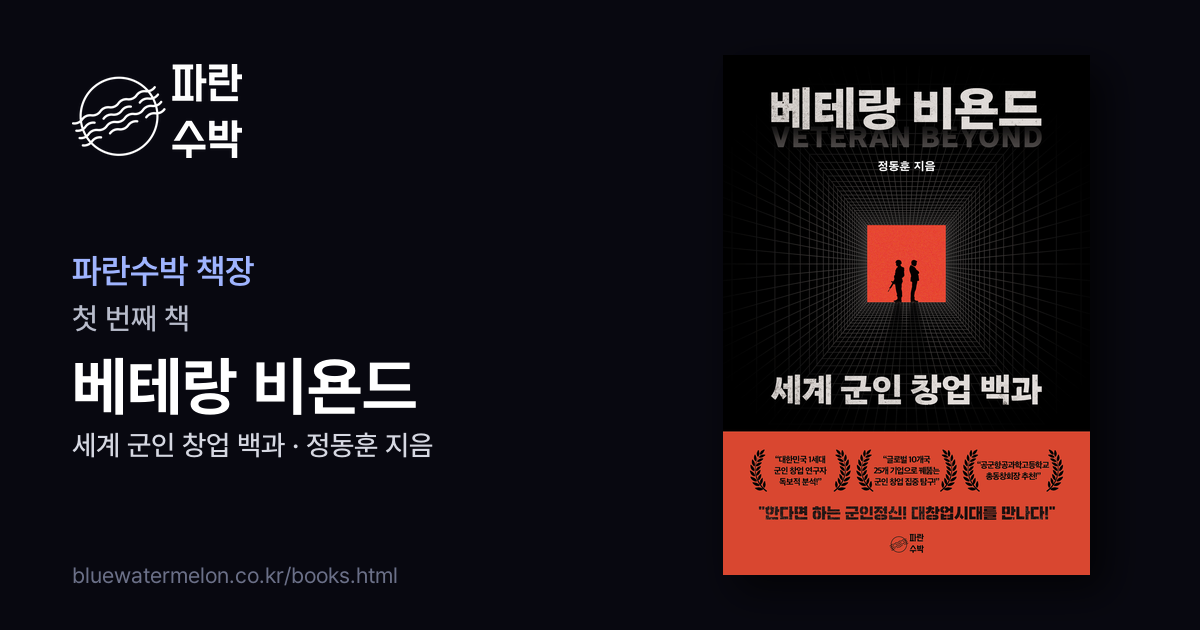
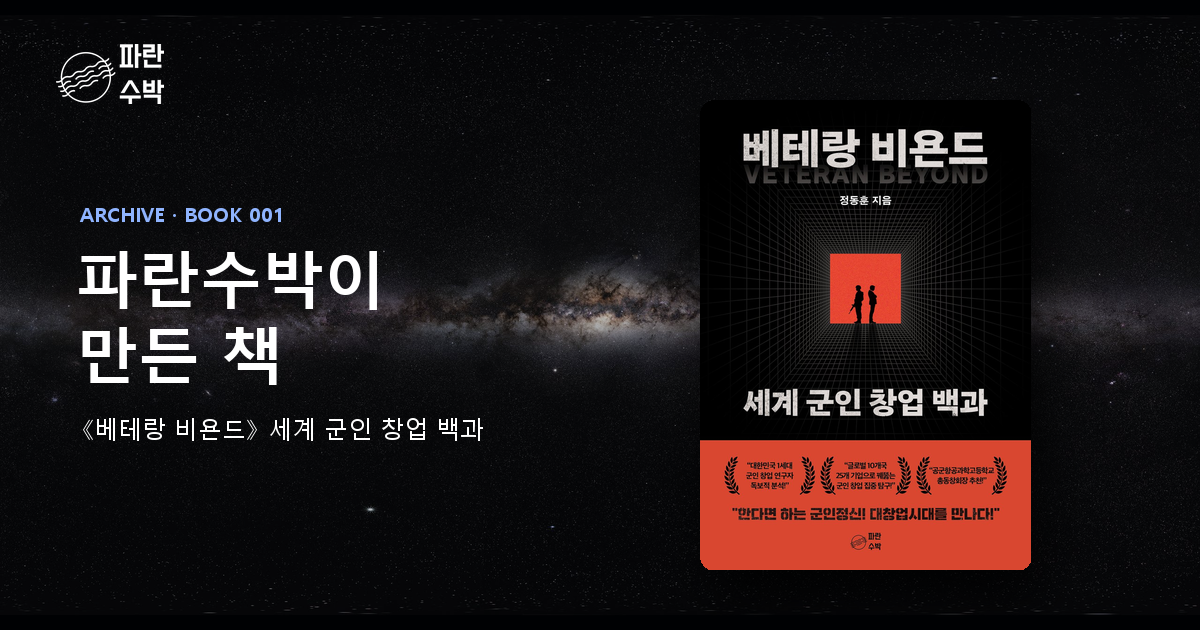
아카이브 쪽 우주 디자인으로 새로 꾸밈, 공유 그림 새로 만듦, 사이트 제목을 캐치프레이즈로, 큰 화면에 4000px 은하수 사진

diff --git a/books.html b/books.html
@@ -6,7 +6,7 @@
 <title>아카이브 — 파란수박</title>
 <meta name="description" content="파란수박이 만든 책. 첫 번째 책 《베테랑 비욘드 — 세계 군인 창업 백과》, 정동훈 지음.">
 <link rel="canonical" href="https://bluewatermelon.co.kr/books.html">
-<meta name="theme-color" content="#080810">
+<meta name="theme-color" content="#03050c">
 <meta property="og:type" content="website">
 <meta property="og:site_name" content="파란수박">
 <meta property="og:locale" content="ko_KR">
@@ -24,103 +24,111 @@
 <script type="application/ld+json">{"@context": "https://schema.org", "@type": "Book", "name": "베테랑 비욘드 — 세계 군인 창업 백과", "alternateName": "Veteran Beyond", "author": {"@type": "Person", "name": "정동훈"}, "publisher": {"@type": "Organization", "name": "파란수박", "url": "https://bluewatermelon.co.kr/"}, "inLanguage": "ko", "image": "https://bluewatermelon.co.kr/books/veteran-beyond-960.jpg", "url": "https://bluewatermelon.co.kr/books.html", "offers": {"@type": "Offer", "price": "15900", "priceCurrency": "KRW", "url": "https://product.kyobobook.co.kr/detail/S000220695815"}}</script>
 <link rel="icon" type="image/png" href="logos/1.png">
 <link rel="apple-touch-icon" href="logos/1.png">
-<link rel="preconnect" href="https://fonts.googleapis.com">
-<link href="https://fonts.googleapis.com/css2?family=Noto+Serif+KR:wght@300;400;600&family=Space+Grotesk:wght@300;400;500&display=swap" rel="stylesheet">
-<link rel="stylesheet" href="style.css">
+<link rel="stylesheet" href="https://cdn.jsdelivr.net/gh/orioncactus/pretendard@v1.3.9/dist/web/static/pretendard.min.css">
 <style>
-.page-hero { padding: 148px 64px 56px; max-width: 1280px; margin: 0 auto; }
-.shelf { max-width: 1280px; margin: 0 auto; padding: 0 64px 120px; }
-.book {
-  display: grid; grid-template-columns: minmax(240px, 380px) 1fr;
-  gap: 80px; padding: 72px 0; border-top: 1px solid #16162A; align-items: start;
+:root{--bg:#03050c;--ink:#fff;--dim:rgba(255,255,255,.56);--faint:rgba(255,255,255,.14);--blue:#8fb4ff}
+*{margin:0;padding:0;box-sizing:border-box}
+html{background:var(--bg)}
+body{background:var(--bg);color:var(--ink);font-family:'Pretendard',-apple-system,system-ui,sans-serif;-webkit-font-smoothing:antialiased;overflow-x:hidden}
+h1,h2,p,li,span{word-break:keep-all}
+a{color:inherit;text-decoration:none}
+
+/* 배경: 은하수를 아주 어둡게 */
+.bgsky{position:fixed;inset:0;z-index:0;background:url(photos/milkyway-eso.jpg) 50% 40%/cover no-repeat;opacity:.38}
+.bgsky::after{content:"";position:absolute;inset:0;background:linear-gradient(180deg,rgba(3,5,12,.35) 0%,rgba(3,5,12,.82) 55%,var(--bg) 100%)}
+
+/* 메뉴(홈과 같음) */
+.nav{position:fixed;top:0;left:0;right:0;z-index:20;display:flex;align-items:center;justify-content:space-between;padding:16px 40px;transition:background .4s}
+.nav.scrolled{background:rgba(3,5,12,.55);backdrop-filter:blur(14px);-webkit-backdrop-filter:blur(14px)}
+.nav-logo img{height:46px;display:block}
+.nav-r{display:flex;align-items:center;gap:28px;font-size:15px;font-weight:500}
+.nav-r a{color:rgba(255,255,255,.78);transition:color .2s}
+.nav-r a:hover,.nav-r a.on{color:#fff}
+.lang{font-size:13px;letter-spacing:.08em;color:rgba(255,255,255,.55);cursor:pointer;border:1px solid var(--faint);border-radius:999px;padding:5px 11px;background:none;font-family:inherit}
+
+main{position:relative;z-index:1;padding:24vh 8vw 14vh;max-width:1280px;margin:0 auto}
+.label{display:block;font-size:13px;font-weight:600;letter-spacing:.24em;color:var(--dim);margin-bottom:22px}
+.page-hero h1{font-size:clamp(38px,5.4vw,80px);font-weight:700;letter-spacing:-.035em;line-height:1.18}
+
+/* 책 한 권 */
+.book{display:grid;grid-template-columns:minmax(0,400px) minmax(0,1fr);gap:72px;margin-top:96px;align-items:start}
+.book-cover{position:sticky;top:110px;aspect-ratio:480/681;border-radius:18px;overflow:hidden;background:#0b1020;box-shadow:0 40px 90px -24px rgba(0,0,0,.9),0 0 0 1px rgba(255,255,255,.06)}
+.book-cover img{width:100%;height:100%;object-fit:cover;display:block}
+.book-code{font-size:12px;font-weight:600;letter-spacing:.2em;color:var(--blue)}
+.book-title{font-size:clamp(34px,4vw,56px);font-weight:800;letter-spacing:-.04em;line-height:1.15;margin-top:14px}
+.book-sub{font-size:clamp(18px,1.6vw,22px);color:rgba(255,255,255,.82);margin-top:8px;font-weight:500}
+.book-meta{font-size:15px;color:var(--dim);margin-top:14px}
+.book-blurbs{display:flex;flex-wrap:wrap;gap:8px;margin-top:30px}
+.book-blurb{font-size:13.5px;padding:8px 14px;border-radius:999px;border:1px solid rgba(143,180,255,.28);background:rgba(143,180,255,.07);color:rgba(220,232,255,.9)}
+.book-desc{margin-top:40px;display:grid;gap:16px}
+.book-desc p{font-size:17px;line-height:1.85;color:rgba(255,255,255,.76)}
+.book-quote{margin-top:44px;padding:4px 0 4px 24px;border-left:2px solid var(--blue)}
+.book-quote span{display:block;font-size:clamp(19px,1.7vw,23px);font-weight:600;line-height:1.6;letter-spacing:-.01em}
+.book-quote cite{display:block;margin-top:12px;font-style:normal;font-size:14px;color:var(--dim)}
+.book-h{margin-top:52px;font-size:13px;font-weight:600;letter-spacing:.24em;color:var(--dim)}
+.book-toc{list-style:none;margin-top:16px;border-top:1px solid var(--faint)}
+.book-toc li{padding:15px 0;border-bottom:1px solid var(--faint);font-size:16px;color:rgba(255,255,255,.82)}
+.buy{display:flex;align-items:center;gap:22px;flex-wrap:wrap;margin-top:44px}
+.book-buy,.next-link{display:inline-flex;align-items:center;gap:8px;padding:16px 30px;border-radius:999px;background:#fff;color:#04060d;font-size:16px;font-weight:700;transition:transform .25s,box-shadow .25s}
+.book-buy:hover,.next-link:hover{transform:translateY(-2px);box-shadow:0 12px 40px -8px rgba(143,180,255,.6)}
+.book-price{font-size:18px;font-weight:600;color:rgba(255,255,255,.8)}
+
+/* 비어 있는 다음 칸 */
+.next-book{display:grid;grid-template-columns:minmax(0,400px) minmax(0,1fr);gap:72px;align-items:center;margin-top:22vh}
+.next-slot{width:min(300px,100%);justify-self:center;aspect-ratio:480/681;border-radius:18px;border:1.5px dashed rgba(255,255,255,.22);display:flex;align-items:center;justify-content:center;font-size:64px;font-weight:800;letter-spacing:-.03em;color:rgba(255,255,255,.12)}
+.next-title{font-size:clamp(30px,3.6vw,52px);font-weight:700;letter-spacing:-.035em;line-height:1.2;margin-top:14px}
+.next-desc{font-size:17px;line-height:1.8;color:var(--dim);margin-top:16px}
+.next-link{margin-top:34px}
+
+/* 바닥(홈과 같음) */
+footer{position:relative;z-index:1;padding:0 8vw 36px;overflow:hidden}
+.foot-row{display:flex;justify-content:space-between;align-items:center;gap:20px;flex-wrap:wrap;padding-top:28px;border-top:1px solid var(--faint);font-size:13px;color:rgba(255,255,255,.45)}
+.foot-row img{height:40px;opacity:.9}
+.foot-row .mail{font-size:17px;font-weight:500;color:rgba(255,255,255,.75)}
+.foot-row a:hover{color:#fff}
+.giant{font-size:8.6vw;font-weight:800;letter-spacing:-.04em;line-height:.9;color:rgba(255,255,255,.05);white-space:nowrap;text-align:center;margin-top:40px;user-select:none}
+
+.rise{opacity:0;transform:translateY(40px);transition:opacity 1s cubic-bezier(.2,.7,.2,1),transform 1s cubic-bezier(.2,.7,.2,1)}
+.rise.on{opacity:1;transform:none}
+.d2{transition-delay:.12s}
+
+@media (max-width:900px){
+  .book,.next-book{grid-template-columns:1fr;gap:40px}
+  .book-cover{position:relative;top:0;width:min(320px,78vw);margin:0 auto}
+  .next-slot{width:min(220px,56vw);margin:0 auto;font-size:44px}
 }
-.book-cover { position: sticky; top: 120px; }
-.book-cover img {
-  display: block; width: 100%; height: auto;
-  box-shadow: 0 30px 60px rgba(0,0,0,0.55), 0 0 0 1px rgba(255,255,255,0.06);
+@media (max-width:720px){
+  .nav{padding:12px 20px}.nav-r{gap:16px;font-size:14px}.nav-logo img{height:36px}
+  main{padding:18vh 22px 12vh}.book{margin-top:56px}
+  .book-desc p{font-size:16px}
+  footer{padding:0 22px 28px}
 }
-.book-code {
-  font-family: var(--sans); font-size: 15px; font-weight: 500;
-  letter-spacing: 0.18em; color: #2B3EE8; margin-bottom: 20px;
-}
-.book-title {
-  font-size: clamp(34px, 5vw, 60px); font-weight: 600; color: #fff;
-  line-height: 1.15; letter-spacing: -0.015em; margin: 0 0 12px;
-}
-.book-sub { font-size: 22px; font-weight: 300; color: #fff; margin: 0 0 8px; }
-.book-meta {
-  font-family: var(--sans); font-size: 16px; color: rgba(255,255,255,0.55);
-  letter-spacing: 0.02em; margin: 0 0 36px;
-}
-.book-blurbs { display: flex; flex-wrap: wrap; gap: 10px; margin-bottom: 40px; }
-.book-blurb {
-  font-size: 16px; color: #fff; padding: 8px 14px;
-  border: 1px solid rgba(252,92,125,0.45); background: rgba(252,92,125,0.07);
-}
-.book-desc p { font-size: 18px; font-weight: 300; line-height: 1.9; color: rgba(255,255,255,0.78); margin: 0 0 18px; }
-.book-quote {
-  margin: 40px 0; padding: 4px 0 4px 24px; border-left: 2px solid #2DBD6E;
-  font-size: 21px; line-height: 1.7; color: #fff;
-}
-.book-quote cite { display: block; margin-top: 10px; font-style: normal; font-size: 15px; color: rgba(255,255,255,0.5); }
-.book-h { font-family: var(--sans); font-size: 16px; letter-spacing: 0.14em; color: rgba(255,255,255,0.6); margin: 48px 0 16px; text-transform: uppercase; }
-.book-toc { list-style: none; padding: 0; margin: 0; }
-.book-toc li { font-size: 18px; color: rgba(255,255,255,0.82); padding: 12px 0; border-bottom: 1px solid #16162A; }
-.book-buy {
-  display: inline-flex; align-items: center; gap: 12px; margin-top: 48px;
-  padding: 18px 30px; background: #2B3EE8; color: #fff; text-decoration: none;
-  font-size: 18px; font-weight: 600; transition: background .2s;
-}
-.book-buy:hover { background: #4152ff; }
-.book-price { display: inline-block; margin: 48px 0 0 20px; font-family: var(--sans); font-size: 18px; color: rgba(255,255,255,0.75); }
-.next-book {
-  display: grid; grid-template-columns: minmax(240px, 380px) 1fr; gap: 80px;
-  padding: 72px 0; border-top: 1px solid #16162A; align-items: center;
-}
-.next-slot {
-  aspect-ratio: 1748 / 2480; border: 1px dashed rgba(255,255,255,0.22);
-  display: flex; align-items: center; justify-content: center;
-  font-family: var(--sans); font-size: 64px; color: rgba(255,255,255,0.18);
-}
-.next-title { font-size: clamp(28px, 4vw, 48px); font-weight: 300; color: #fff; margin: 0 0 20px; line-height: 1.25; }
-.next-desc { font-size: 18px; font-weight: 300; line-height: 1.9; color: rgba(255,255,255,0.7); margin: 0 0 32px; }
-.next-link { color: #fff; font-size: 18px; text-decoration: none; border-bottom: 1px solid #FC5C7D; padding-bottom: 4px; }
-@media(max-width:900px){
-  .book, .next-book { grid-template-columns: 1fr; gap: 40px; }
-  .book-cover { position: static; max-width: 340px; }
-  .next-slot { max-width: 340px; }
-}
-@media(max-width:768px){
-  .page-hero { padding: 120px 28px 40px; }
-  .shelf { padding: 0 28px 80px; }
-  .book, .next-book { padding: 48px 0; }
-  .book-price { display: block; margin: 20px 0 0; }
-}
-@media (max-width: 900px){.nav-links{display:flex;position:static;transform:none;gap:16px;margin-left:auto;margin-right:14px}.nav-links a{font-size:14px;letter-spacing:0}}
+@media (prefers-reduced-motion:reduce){.rise{transition:none;opacity:1;transform:none}}
 </style>
 </head>
 <body>
-<nav class="site-nav" id="site-nav">
+<div class="bgsky" aria-hidden="true"></div>
+
+<nav class="nav" id="nav">
   <a href="index.html" class="nav-logo"><img src="logos/logo-white.png" alt="파란수박"></a>
-  <ul class="nav-links">
-    <li><a href="books.html" class="active" data-ko="아카이브" data-en="ARCHIVE">아카이브</a></li>
-    <li><a href="index.html#send" data-ko="원고 보내기" data-en="SEND A MANUSCRIPT">원고 보내기</a></li>
-  </ul>
-  <div class="nav-lang" id="nav-lang" onclick="toggleLang()">EN</div>
+  <div class="nav-r">
+    <a href="books.html" class="on" aria-current="page" data-ko="아카이브" data-en="Archive">아카이브</a>
+    <a href="index.html#send" data-ko="원고 보내기" data-en="Send a manuscript">원고 보내기</a>
+    <button class="lang" id="lang" type="button">EN</button>
+  </div>
 </nav>
 
+<main>
 <div class="page-hero">
-  <span class="section-label reveal" data-ko="아카이브" data-en="ARCHIVE">아카이브</span>
-  <h1 class="section-title reveal" data-ko="파란수박이 만든 책" data-en="Books from Blue Watermelon">파란수박이 만든 책</h1>
-  <div class="section-divider"></div>
+  <span class="label rise" data-ko="아카이브" data-en="ARCHIVE">아카이브</span>
+  <h1 class="rise d2" data-ko="파란수박이 만든 책" data-en="Books from Blue Watermelon">파란수박이 만든 책</h1>
 </div>
 
-<div class="shelf">
-  <article class="book reveal">
-    <div class="book-cover">
+  <article class="book">
+    <div class="book-cover rise">
       <img src="books/veteran-beyond-480.jpg" srcset="books/veteran-beyond-480.jpg 480w, books/veteran-beyond-960.jpg 960w" sizes="(max-width: 900px) 340px, 380px" width="480" height="681" alt="베테랑 비욘드 — 세계 군인 창업 백과 표지">
     </div>
-    <div class="book-info">
+    <div class="book-info rise d2">
       <div class="book-code" data-ko="BOOK 001 · 첫 번째 책" data-en="BOOK 001 · OUR FIRST BOOK">BOOK 001 · 첫 번째 책</div>
       <h2 class="book-title">베테랑 비욘드</h2>
       <p class="book-sub" data-ko="세계 군인 창업 백과" data-en="An Encyclopedia of Military Entrepreneurship Worldwide">세계 군인 창업 백과</p>
@@ -154,12 +162,12 @@
         <li>Part 6. 에필로그: 창업군(創業軍)</li>
       </ul>
 
-      <a class="book-buy" href="https://product.kyobobook.co.kr/detail/S000220695815" target="_blank" rel="noopener"><span data-ko="교보문고에서 보기" data-en="View at Kyobo Book Centre">교보문고에서 보기</span> →</a>
-      <span class="book-price">15,900원</span>
+      <div class="buy"><a class="book-buy" href="https://product.kyobobook.co.kr/detail/S000220695815" target="_blank" rel="noopener"><span data-ko="교보문고에서 보기" data-en="View at Kyobo Book Centre">교보문고에서 보기</span> →</a>
+      <span class="book-price">15,900원</span></div>
     </div>
   </article>
 
-  <section class="next-book reveal">
+  <section class="next-book rise">
     <div class="next-slot">002</div>
     <div>
       <div class="book-code" data-ko="BOOK 002 · 비어 있는 칸" data-en="BOOK 002 · AN EMPTY SLOT">BOOK 002 · 비어 있는 칸</div>
@@ -168,23 +176,29 @@
       <a class="next-link" href="index.html#send" data-ko="원고 보내기 →" data-en="Send a manuscript →">원고 보내기 →</a>
     </div>
   </section>
-</div>
 
-<footer class="site-footer">
-  <div class="footer-brand-col"><img src="logos/logo-white.png" alt="파란수박" class="footer-logo"><p class="footer-tagline">외계인이 설립한 출판사<br>파란 수박</p></div>
-  <div class="footer-links-col"><div class="footer-col-title">Pages</div><ul class="footer-links"><li><a href="index.html">홈</a></li><li><a href="books.html">아카이브</a></li><li><a href="index.html#send">원고 보내기</a></li></ul></div>
-  <div class="footer-contact-col"><div class="footer-col-title">Contact</div><a href="mailto:donghoon807@gmail.com" class="footer-email">donghoon807@gmail.com</a><p class="footer-copy">수신 확인까지 1–3 지구일 소요됩니다.</p></div>
+</main>
+
+<footer>
+  <div class="foot-row">
+    <img src="logos/logo-white.png" alt="파란수박">
+    <a class="mail" href="mailto:donghoon807@gmail.com">donghoon807@gmail.com</a>
+    <span>© 2026 파란수박 · 사진 <a href="https://www.eso.org/public/images/eso0932a/" target="_blank" rel="noopener">ESO/S. Brunier</a> (<a href="https://creativecommons.org/licenses/by/4.0/" target="_blank" rel="noopener">CC BY 4.0</a>)</span>
+  </div>
+  <div class="giant" aria-hidden="true">BLUE WATERMELON</div>
 </footer>
-<div class="footer-bottom"><span class="footer-bottom-text">© 2026 파란수박 — 지구기록보관소</span><span class="footer-bottom-text">본부좌표 — 달 뒷면 / FAR SIDE OF THE MOON</span></div>
+
 <script>
-const nav = document.getElementById('site-nav');
-window.addEventListener('scroll', () => { nav.classList.toggle('scrolled', window.scrollY > 40); }, { passive: true });
-nav.classList.add('scrolled');
-const reveals = document.querySelectorAll('.reveal');
-const obs = new IntersectionObserver(entries => { entries.forEach(e => { if (e.isIntersecting) { e.target.classList.add('visible'); obs.unobserve(e.target); } }); }, { threshold: 0.06 });
-reveals.forEach(el => obs.observe(el));
-let isKo = true;
-function toggleLang() { isKo = !isKo; document.getElementById('nav-lang').textContent = isKo ? 'EN' : 'KO'; document.querySelectorAll('[data-ko][data-en]').forEach(el => { el.textContent = isKo ? el.dataset.ko : el.dataset.en; }); }
+const nav=document.getElementById('nav');
+const onScroll=()=>nav.classList.toggle('scrolled',scrollY>40);
+addEventListener('scroll',onScroll,{passive:true}); onScroll();
+let isKo=true;
+document.getElementById('lang').onclick=function(){
+  isKo=!isKo; this.textContent=isKo?'EN':'KO'; document.documentElement.lang=isKo?'ko':'en';
+  document.querySelectorAll('[data-ko][data-en]').forEach(el=>{el.textContent=isKo?el.dataset.ko:el.dataset.en});
+};
+const io=new IntersectionObserver(es=>es.forEach(e=>{if(e.isIntersecting){e.target.classList.add('on');io.unobserve(e.target)}}),{threshold:.08});
+document.querySelectorAll('.rise').forEach(el=>io.observe(el));
 </script>
 </body>
 </html>

diff --git a/index.html b/index.html
@@ -3,14 +3,14 @@
 <head>
 <meta charset="UTF-8">
 <meta name="viewport" content="width=device-width, initial-scale=1.0">
-<title>파란수박 — 지구기록보관소</title>
+<title>파란수박 — 우리는 당신이 쓰는 책이 더 궁금해</title>
 <meta name="description" content="외계인이 설립한 출판사. 모든 지구인은 한 권의 책입니다.">
 <link rel="canonical" href="https://bluewatermelon.co.kr/">
 <meta name="theme-color" content="#080810">
 <meta property="og:type" content="website">
 <meta property="og:site_name" content="파란수박">
 <meta property="og:locale" content="ko_KR">
-<meta property="og:title" content="파란수박 — 지구기록보관소">
+<meta property="og:title" content="파란수박 — 우리는 당신이 쓰는 책이 더 궁금해">
 <meta property="og:description" content="외계인이 설립한 출판사. 모든 지구인은 한 권의 책입니다.">
 <meta property="og:url" content="https://bluewatermelon.co.kr/">
 <meta property="og:image" content="https://bluewatermelon.co.kr/og/og-default.png">
@@ -18,7 +18,7 @@
 <meta property="og:image:height" content="630">
 <meta property="og:image:alt" content="우리는 노벨상 수상자보다 당신이 쓰는 책이 더 궁금해 — 파란수박">
 <meta name="twitter:card" content="summary_large_image">
-<meta name="twitter:title" content="파란수박 — 지구기록보관소">
+<meta name="twitter:title" content="파란수박 — 우리는 당신이 쓰는 책이 더 궁금해">
 <meta name="twitter:description" content="외계인이 설립한 출판사. 모든 지구인은 한 권의 책입니다.">
 <meta name="twitter:image" content="https://bluewatermelon.co.kr/og/og-default.png">
 <script type="application/ld+json">{"@context": "https://schema.org", "@type": "Organization", "name": "파란수박", "alternateName": "Blue Watermelon", "url": "https://bluewatermelon.co.kr/", "logo": "https://bluewatermelon.co.kr/logos/1.png", "description": "외계인이 설립한 출판사. 모든 지구인은 한 권의 책입니다.", "email": "donghoon807@gmail.com"}</script>
@@ -273,6 +273,8 @@ const sky=document.getElementById('sky'), sc=sky.getContext('2d');
 let base=null, twinkle=[];
 function rnd(s){return function(){s=(s*16807)%2147483647;return (s-1)/2147483646}}
 const skyImg=new Image(); skyImg.src='photos/milkyway-eso.jpg'; skyImg.onload=()=>{buildSky()};
+// 큰 화면(휴대폰 제외)·고해상도 화면이면 먼저 보통 사진을 띄운 뒤 4000px 사진으로 바꿈
+if(W>=900&&Math.max(W,H*2)*1.05*DPR>2600){const hi=new Image(); hi.onload=()=>{skyImg.src=hi.src}; hi.src='photos/milkyway-eso-4k.jpg';}
 function buildSky(){
   sky.width=W*DPR; sky.height=H*DPR;
   base=document.createElement('canvas'); base.width=sky.width; base.height=sky.height;
